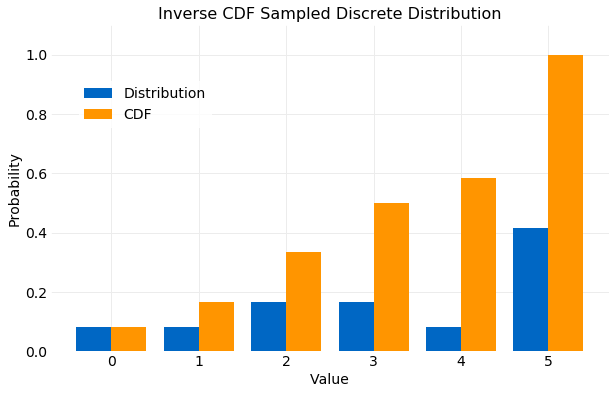
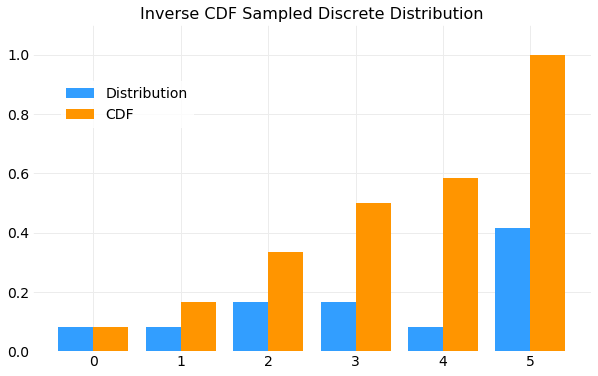
final plot tweaks for inv cdf samp

diff --git a/hydrogen_notebooks/mcmc/inverse_cdf_sampling.py b/hydrogen_notebooks/mcmc/inverse_cdf_sampling.py
@@ -27,10 +27,9 @@ multinomial_samples = numpy.random.multinomial(nsamples, df, size=1)/nsamples
 # %%
 
 figure, axis = pyplot.subplots(figsize=(10, 6))
-axis.set_xlabel("Value")
-axis.set_ylabel("Probability")
 axis.set_ylim([0, 1.1])
 axis.set_title("Inverse CDF Sampled Discrete Distribution")
+axis.set_prop_cycle(config.bar_plot_cycler)
 axis.bar(x - 0.2, df, 0.4, label=f"Distribution", zorder=5)
 axis.bar(x + 0.2, cdf, 0.4, label=f"CDF", zorder=5)
 axis.legend(bbox_to_anchor=(0.3, 0.85))
@@ -44,19 +43,18 @@ hist, _ = numpy.histogram(df_samples, bins)
 p = hist/numpy.sum(hist)
 
 figure, axis = pyplot.subplots(figsize=(10, 6))
-axis.set_xlabel("Value")
-axis.set_ylabel("Probability")
 axis.set_ylim([0, 0.5])
+axis.set_prop_cycle(config.bar_plot_cycler)
 axis.set_title("Inverse CDF Sampled Discrete Distribution")
 axis.bar(x - 0.2, df, 0.4, label=f"Distribution", zorder=5)
 axis.bar(x + 0.2, p, 0.4, label=f"Samples", zorder=5)
-axis.set_prop_cycle(config.bar_chart_cycler)
 axis.legend(bbox_to_anchor=(0.3, 0.85))
+config.save_post_asset(figure, "inverse_cdf_sampling", "discrete_sampled_distribution")
 
 # %%
 # Inverse CDF sampling for exponential
 
-nsamples = 10000
+nsamples = 100000
 cdf_inv = lambda v: numpy.log(1.0 / (1.0 - v))
 pdf = lambda v: numpy.exp(-v)
 
@@ -67,94 +65,102 @@ dx = 6.0/499.0
 # %%
 
 figure, axis = pyplot.subplots(figsize=(10, 6))
-axis.set_xlabel("Value")
 axis.set_ylim([0, 1.1])
 axis.set_xlim([0.0, 6.0])
-axis.set_ylabel("Probability")
 axis.set_title("Exponential Distribution")
 axis.plot(x, pdf(x), label="PDF", zorder=5)
 axis.plot(x, dx*numpy.cumsum(pdf(x)), label="CDF", zorder=5)
 axis.legend(bbox_to_anchor=(0.9, 0.6))
+config.save_post_asset(figure, "inverse_cdf_sampling", "exponential_cdf")
+
 
 # %%
 
-figure, axis = pyplot.subplots(figsize=(12, 5))
+figure, axis = pyplot.subplots(figsize=(10, 6))
 axis.set_xlabel("Sample")
 axis.set_ylabel("PDF")
 axis.set_xlim([0.0, 6.0])
 axis.set_title("Inverse CDF Sampled Exponential Distribution")
 axis.set_prop_cycle(config.distribution_sample_cycler)
-axis.hist(samples, 50, density=True, rwidth=0.8, label=f"Samples", zorder=5, color="#329EFF")
+axis.hist(samples, 60, density=True, rwidth=0.8, label=f"Samples", zorder=5)
 axis.plot(x, pdf(x), label=f"Sampled PDF", zorder=6, color="#003B6F")
-axis.legend()
+axis.legend(bbox_to_anchor=(0.9, 0.8))
+config.save_post_asset(figure, "inverse_cdf_sampling", "exponetial_sampled_distribution")
+
 
 # %%
 # Inverse CDF sampling from weibull distribution
 
 k = 5.0
 λ = 1.0
-nsample = 10000
+nsamples = 100000
 pdf = stats.weibull(k, λ)
 cdf_inv = lambda u: λ * (numpy.log(1.0/(1.0 - u)))**(1.0/k)
 x = numpy.linspace(0.001, 1.6, 500)
 dx = 1.6/499.0
 
-samples = [cdf_inv(u) for u in numpy.random.rand(nsample)]
+samples = [cdf_inv(u) for u in numpy.random.rand(nsamples)]
 
 # %%
 
 figure, axis = pyplot.subplots(figsize=(10, 6))
-axis.set_xlabel("Value")
 axis.set_ylim([0, 2.0])
 axis.set_xlim([0.0, 1.6])
-axis.set_ylabel("Probability")
 axis.set_title("Weibull Distribution")
 pdf_values = [pdf(v) for v in x]
 axis.plot(x, pdf_values, label="PDF", zorder=5)
 axis.plot(x, dx*numpy.cumsum(pdf_values), label="CDF", zorder=5)
-axis.legend()
+axis.legend(bbox_to_anchor=(0.3, 0.8))
+config.save_post_asset(figure, "inverse_cdf_sampling", "weibull_cdf")
+
 
 # %%
 
-figure, axis = pyplot.subplots(figsize=(12, 5))
+figure, axis = pyplot.subplots(figsize=(10, 6))
 axis.set_xlabel("Sample")
 axis.set_ylabel("PDF")
 axis.set_ylim([0, 2.0])
 axis.set_xlim([0.0, 1.6])
 axis.set_title("Inverse CDF Sampled Weibill Distribution")
-axis.plot(x, pdf_values, label=f"Sampled Function", zorder=6)
-axis.hist(samples, 40, density=True, rwidth=0.8 , label=f"Sampled Density", zorder=5)
+axis.set_prop_cycle(config.distribution_sample_cycler)
+axis.hist(samples, 30, density=True, rwidth=0.8 , label=f"Sampled PDF", zorder=5)
+axis.plot(x, pdf_values, label=f"Samples", zorder=6)
 pdf_values = [pdf(u) for u in x]
-axis.legend()
+axis.legend(bbox_to_anchor=(0.35, 0.85))
+config.save_post_asset(figure, "inverse_cdf_sampling", "weibull_sampled_distribution")
+
 
 # %%
 
 μ = stats.weibull_mean(k, λ)
 title = r"Weibull Distribution, Inverse CDF Sampled, μ convergence"
-time = range(nsamples)
+x = range(nsamples)
 
-figure, axis = pyplot.subplots(figsize=(12, 6))
+figure, axis = pyplot.subplots(figsize=(10, 6))
 axis.set_xlabel("Time")
 axis.set_ylabel("μ")
 axis.set_title(title)
 axis.set_xlim([1.0, nsamples])
-axis.set_ylim([0.0, 2.0])
-axis.semilogx(time, numpy.full(nsamples, μ), label="Target μ", color="#000000")
-axis.semilogx(time, stats.cummean(samples), label="Sampled Distribution")
-axis.legend()
+axis.set_ylim([0.5, 1.5])
+axis.semilogx(x, numpy.full(nsamples, μ), label="Target μ")
+axis.semilogx(x, stats.cummean(samples), label="Sampled μ")
+axis.legend(bbox_to_anchor=(1.0, 0.85))
+config.save_post_asset(figure, "inverse_cdf_sampling", "weibull_sampled_mean_convergence")
+
 
 # %%
 
 σ = stats.weibull_sigma(k, λ)
 title = r"Weibull Distribution, Inverse CDF Sampled, σ convergence"
-time = range(nsamples)
+c = range(nsamples)
 
-figure, axis = pyplot.subplots(figsize=(12, 6))
+figure, axis = pyplot.subplots(figsize=(10, 6))
 axis.set_xlabel("Time")
 axis.set_ylabel("σ")
 axis.set_title(title)
 axis.set_xlim([1.0, nsamples])
 axis.set_ylim([0.0, 0.6])
-axis.semilogx(time, numpy.full(nsamples, σ), label="Target σ", color="#000000")
-axis.semilogx(time, stats.cumsigma(samples), label=r"Sampled Distribution")
-axis.legend()
+axis.semilogx(x, numpy.full(nsamples, σ), label="Target σ")
+axis.semilogx(x, stats.cumsigma(samples), label=r"Sampled σ")
+axis.legend(bbox_to_anchor=(1.0, 0.85))
+config.save_post_asset(figure, "inverse_cdf_sampling", "weibull_sampled_std_convergence")

diff --git a/glyfish/config.py b/glyfish/config.py
@@ -10,4 +10,5 @@ def save_post_asset(figure, post, plot):
     path = os.path.join(post_asset_path, post, plot) + ".png"
     figure.savefig(path, bbox_inches="tight")
 
-distribution_sample_cycler = cycler("color", ["329EFF", "320075"])
+distribution_sample_cycler = cycler("color", ["#329EFF", "#320075"])
+bar_plot_cycler = cycler("color", ["#329EFF", "#FF9500"])
